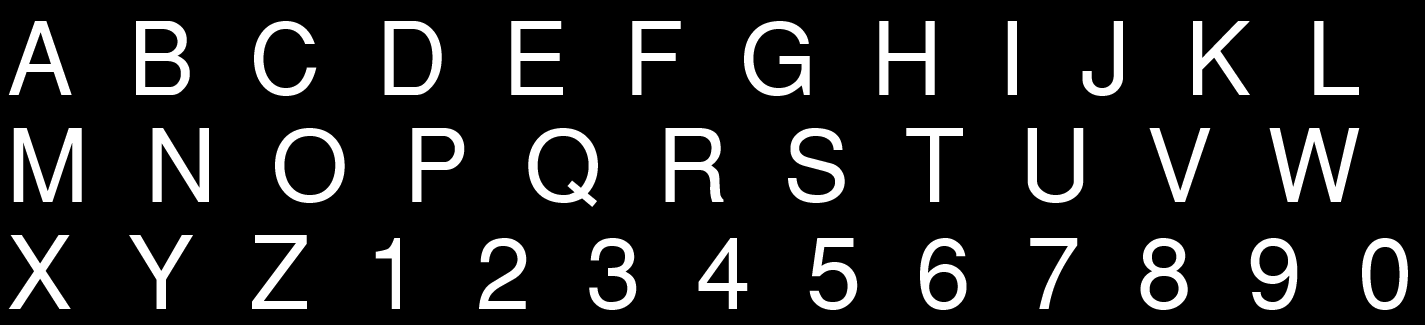
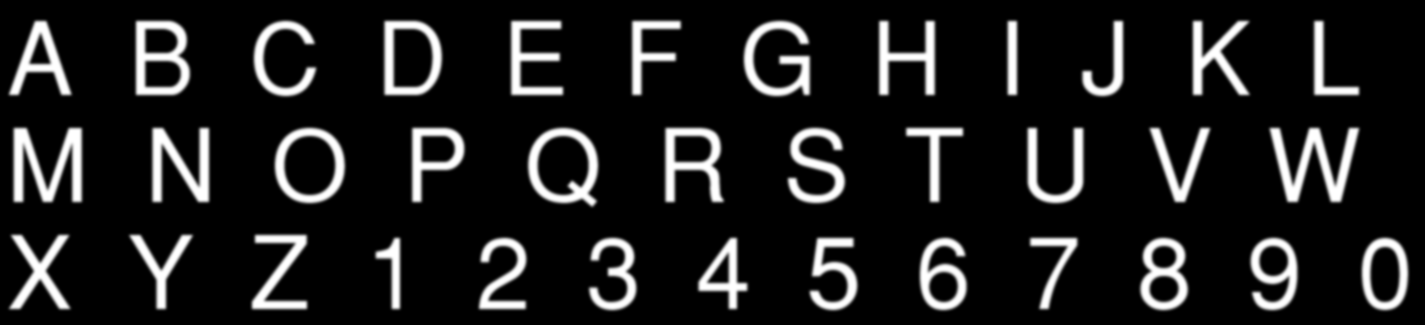
updating character space width thus improving the accuracy

diff --git a/Suchit's CV/Number plate OCR/number plate detection.py b/Suchit's CV/Number plate OCR/number plate detection.py
@@ -20,7 +20,7 @@ class PyImageSearchANPR:
         self.low_chars = 'XYZ1234567890'
 
     def character_space_creation(self, image):
-
+        image = cv2.GaussianBlur(image, (7, 7), 0)
         # finding negative of the given image
         def negative(img):
             img = cv2.cvtColor(img, cv2.COLOR_BGR2GRAY)
@@ -123,6 +123,7 @@ class PyImageSearchANPR:
 
         # resizing the char_space so that the template matches properly
         height = 3 * self.char_height
+        width = 14 * (self.char_width // 10)
         char_space = cv2.resize(char_space, (width, height), interpolation=cv2.INTER_LINEAR)
 
         # saving the character space
